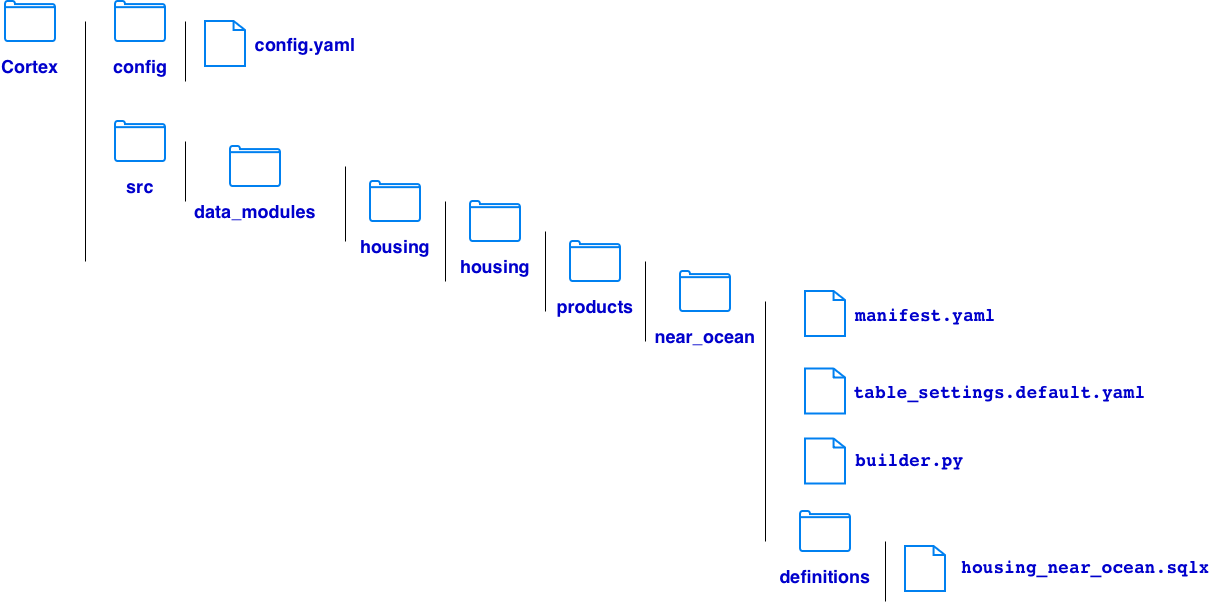
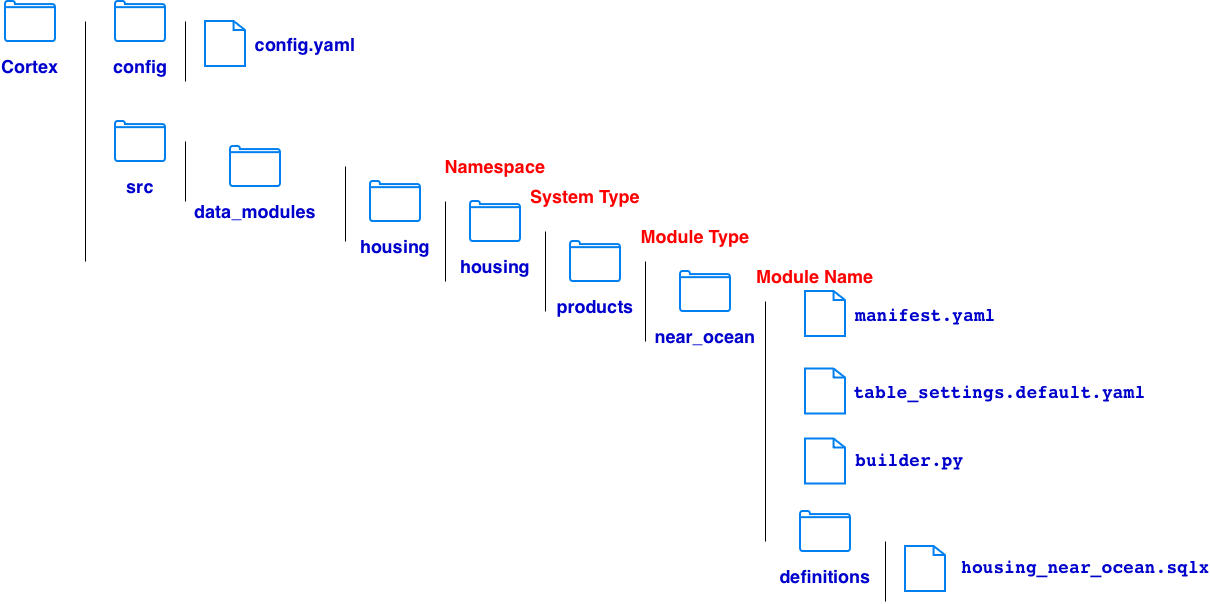
Cortex module layout

diff --git a/Cloud/GCP/BigQuery/Dataform/Cortext_intro.htm b/Cloud/GCP/BigQuery/Dataform/Cortext_intro.htm
@@ -148,6 +148,19 @@ uv run cortex-deploy --config config/config.yaml
 # execution on Dataform
           </pre>
         </div>
+        <div class = "subtitle">Deployment</div>
+        <div class = "block">
+                <center><img src = "img/Cortex_8.png" width=60%></center>
+        </div>
+        <div class = "block">
+          <ul>
+            <li>Each module has one source dataset and one target dataset</li>
+            <li>In a config.yaml, can define multiple namespace, each namespace contains multiple modules</li>
+            <li>Module path, [namespace_name]/[system_type]/[module_type]/[module_name]</li>
+            <li>Typically, define one enabled Dataform deployment target in a Cortex config.yaml</li>
+            <li>Code in multiple modules is combined and deployed into one workspace within one Dataform repository</li>
+          </ul>
+        </div>
         <div class = "subtitle">Reference</div>
         <div class = "block">
           <ul>

diff --git a/Cloud/GCP/BigQuery/Dataform/Datform_sqlx.htm b/Cloud/GCP/BigQuery/Dataform/Datform_sqlx.htm
@@ -106,9 +106,9 @@ config {
   // single line comment
   /* multiple line comment */
   type: "table",
-  database: "data-508912",
-  schema: "test",
-  name: "near_ocean", // by default, use the script name as the output table/view name
+  database: "data-508912", // project id
+  schema: "test", // output dataset name
+  name: "near_ocean", // output table name, by default, use the script name as the output table/view name
   description: "Housing records with ocean_proximity equal to NEAR OCEAN"
 }
 
